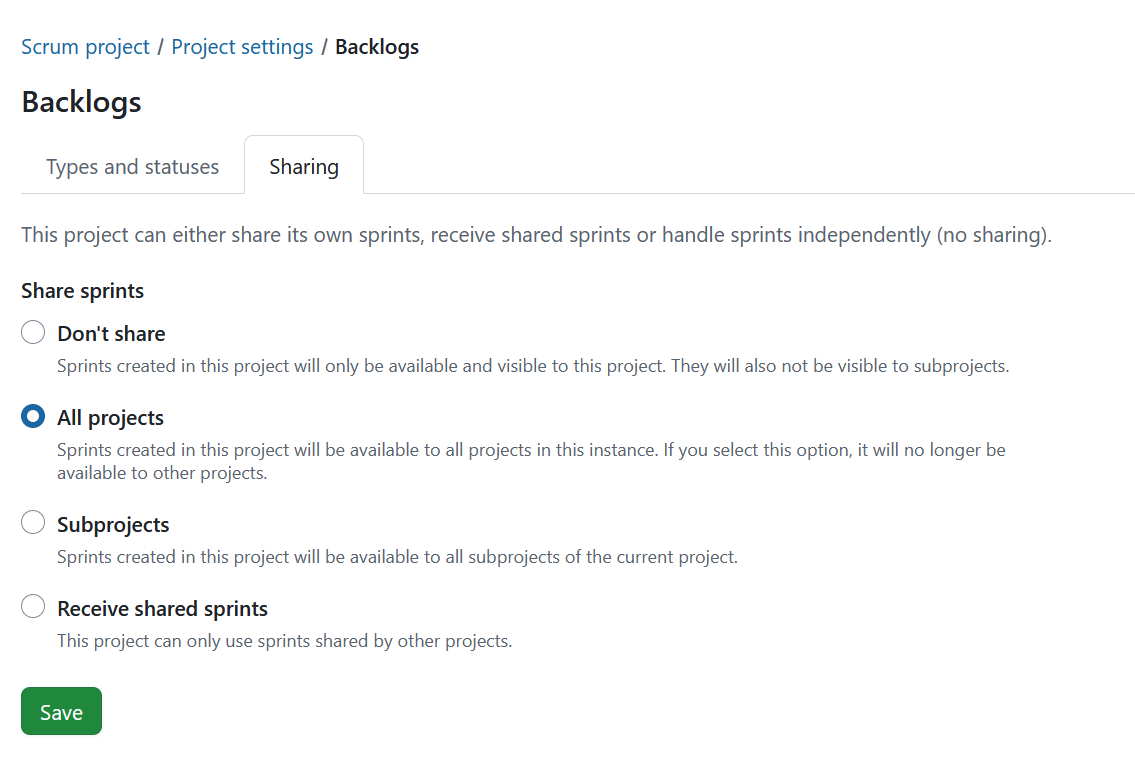
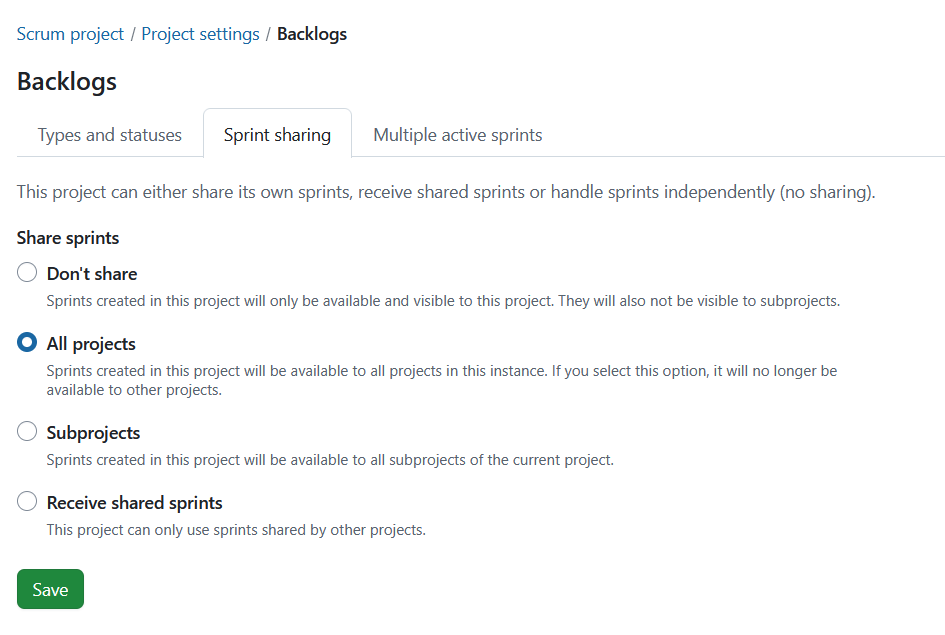
[DOCU-844] 17.7 Agile changes  https://community.openproject.org/wp/DOCU-844
[DOCU-844] 17.7 Agile changes

https://community.openproject.org/wp/DOCU-844

diff --git a/docs/user-guide/projects/project-settings/backlogs-settings/README.md b/docs/user-guide/projects/project-settings/backlogs-settings/README.md
@@ -101,3 +101,13 @@ The following remain project-specific:
 Even when using shared sprints, each project keeps its own work items and configuration.
 
 Read more on [how to work with Backlogs in OpenProject](../../../backlogs-scrum/).
+
+## Multiple active sprints
+
+Multiple active sprints is a **project-level setting** that allows you to enable more than one active sprint within a project. To enable this setting, toggle the **Allow multiple active sprints** switch to **On**.
+
+> [!NOTE] 
+>
+> There is no limit to the number of sprints that can be activated or run in parallel within a project. To access this setting, **Don't share** option in the sprint sharing tab must be selected. 
+
+![Activate multiple active sprints under project settings in OpenProject](openproject_user_guide_project_settings_backlogs_allow_multiple_active_sprints.png)
